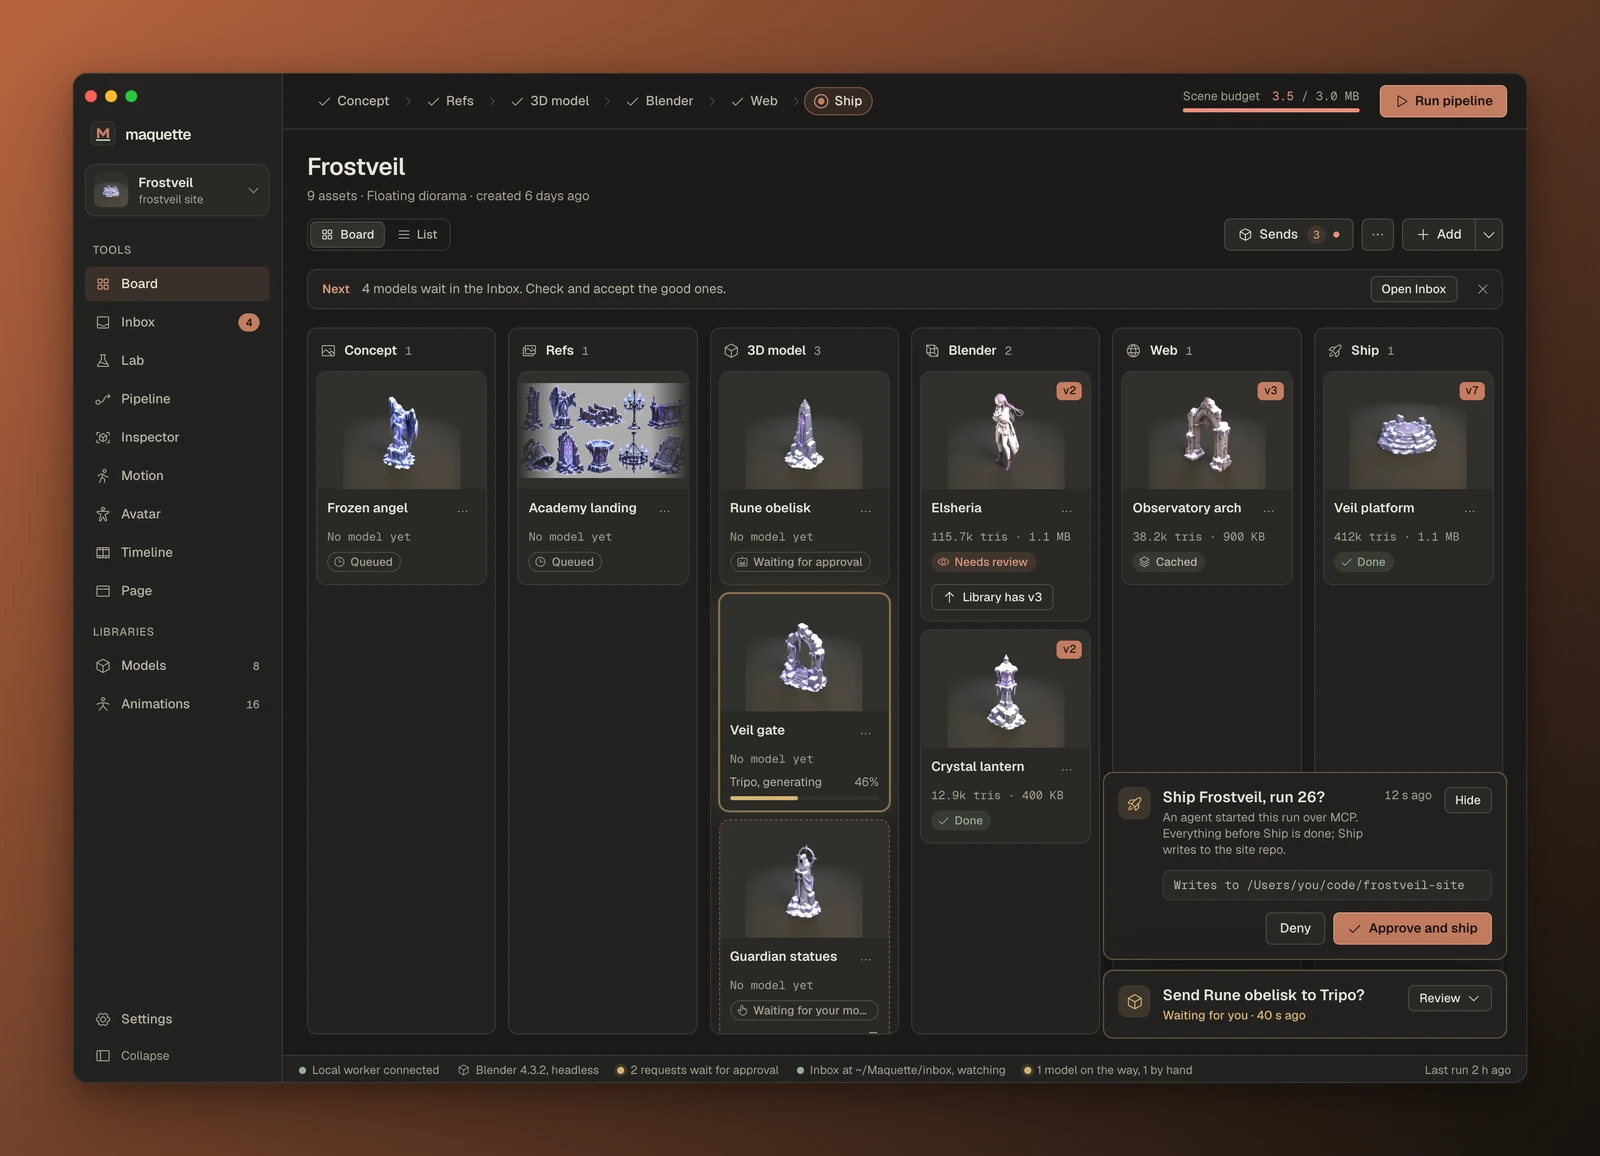
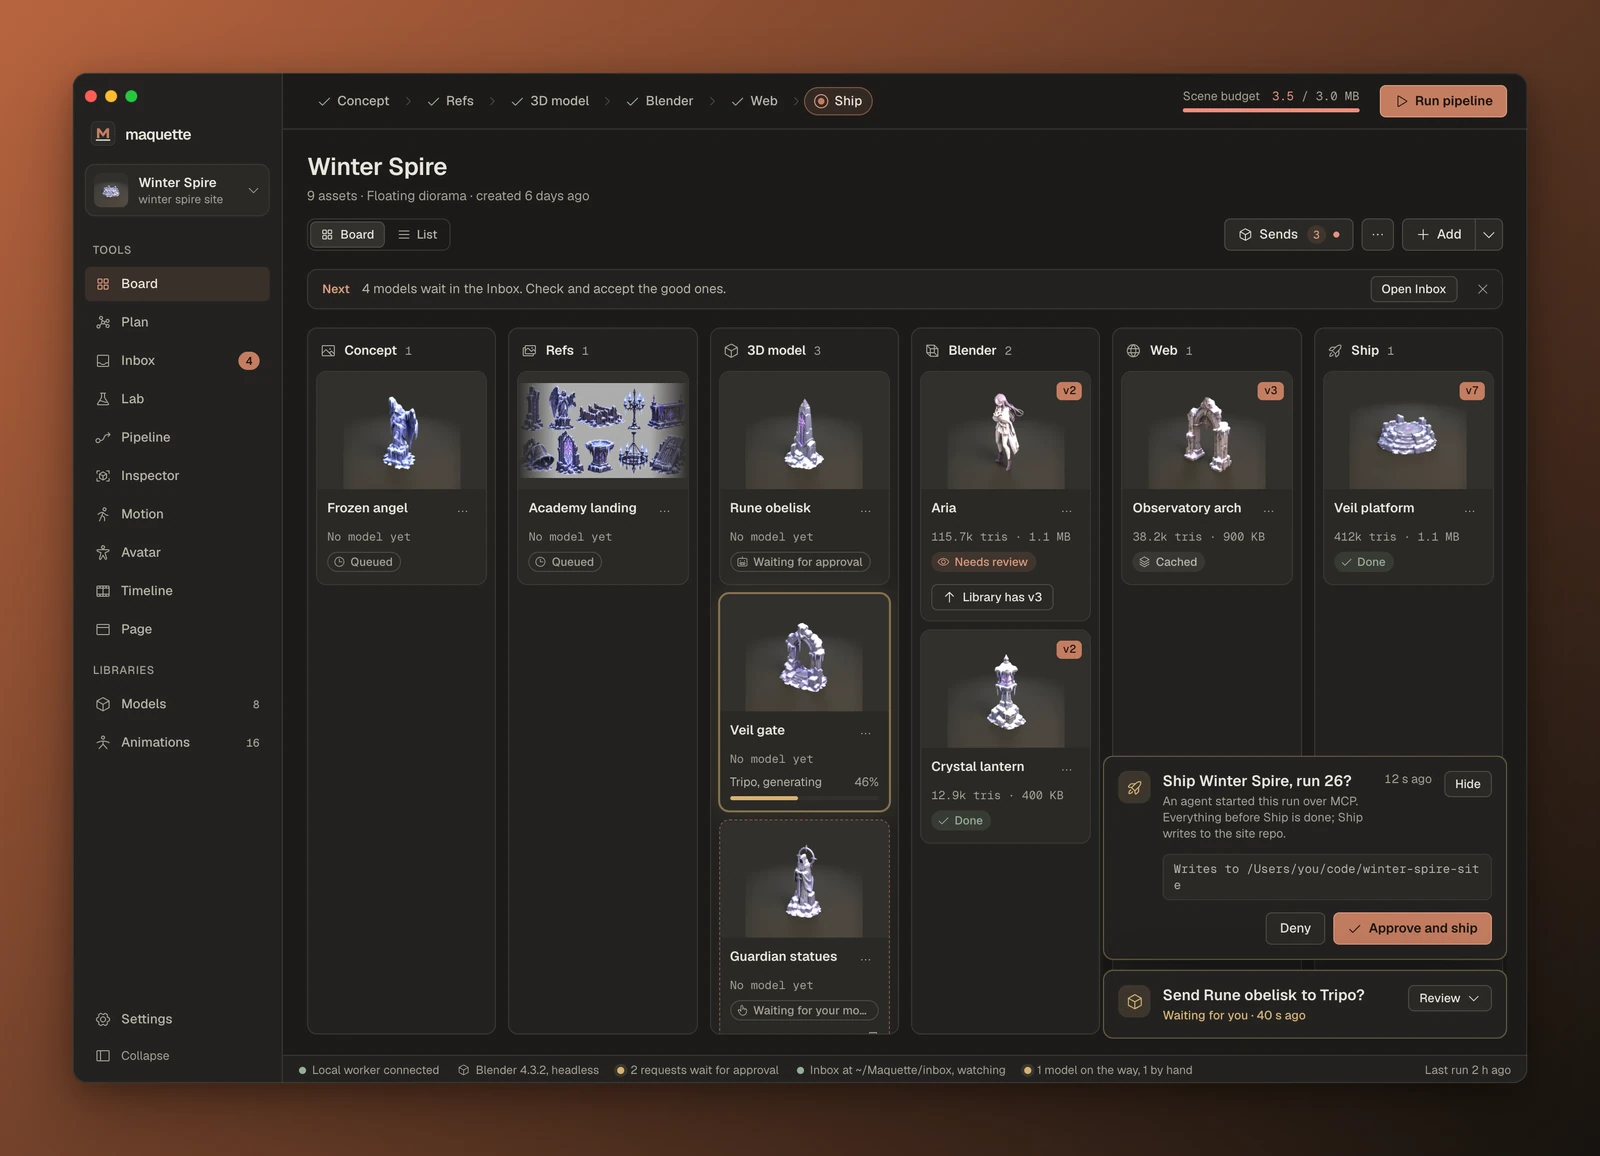
docs(docs): retake the README images and add the plan, tool group and trash shots

diff --git a/README.md b/README.md
@@ -1,5 +1,5 @@
 <div align="center">
-  <img src="assets/showcase/hero.webp" alt="Maquette: the Board, the Lab and the Page view of a sample project, stacked on a warm clay gradient" width="100%" />
+  <img src="assets/showcase/hero.webp" alt="Maquette: the Board, the Lab and a Plan canvas of a sample project, stacked on a warm clay gradient" width="100%" />
 
   <h1>Maquette</h1>
 
@@ -51,7 +51,7 @@ Concept  ->  Refs  ->  3D model  ->  Blender  ->  Web or Export  ->  Ship
 
 <table>
   <tr>
-    <td width="50%"><img src="assets/showcase/board.webp" alt="Maquette: the Board of the Frostveil sample project, with an asset in every column from Concept to Ship" /></td>
+    <td width="50%"><img src="assets/showcase/board.webp" alt="Maquette: the Board of the Winter Spire sample project, with an asset in every column from Concept to Ship" /></td>
     <td width="50%"><img src="assets/showcase/lab.webp" alt="Maquette: the Lab with six concept images of a frozen lake arena at night, one picked and two starred" /></td>
   </tr>
   <tr>
@@ -119,6 +119,30 @@ Concept  ->  Refs  ->  3D model  ->  Blender  ->  Web or Export  ->  Ship
 **Refs by view.** Each ref is tagged front, left, back, right or other on its asset, and every send goes in that order. Codex draws the missing views from the front or cleans a busy background, as candidates you pick from, and Send to 3D warns about small, cropped or cluttered refs, and views that look different from the front, before any credit is spent.
 
 **Libraries across projects.** Finished models live outside every project, with their versions, tags and refs. Using one copies it in and spends nothing; a project with an older copy is offered the update. Animation clips get a library of their own: Mixamo FBX files and pack zips, or a rigged model's clips, kept once and skeleton only.
+
+<table>
+  <tr>
+    <td width="50%"><img src="assets/showcase/plan.webp" alt="Maquette: a Game mechanics planning canvas with six note cards joined by a link, two pairs of cards flagged as overlapping and the Overlaps panel open on the right" /></td>
+    <td width="50%"><img src="assets/showcase/camera-plan.webp" alt="Maquette: the camera plan canvas of a website, five camera stops with their poster renders joined in tour order and the order after Apply listed on the right" /></td>
+  </tr>
+  <tr>
+    <td align="center"><sub>Plan: a Game mechanics canvas, with the cards that share a verb, look or key flagged.</sub></td>
+    <td align="center"><sub>Camera plan: the site tour as stops on a canvas, written to layout.json only after you review the diff.</sub></td>
+  </tr>
+</table>
+
+**Planning canvases.** Each project can hold canvases of notes, pictures, links and live asset and Lab direction nodes, saved as plain files in `plans/`. Presets start a canvas as Brainstorm, Story or Game mechanics. Agents read and write them over MCP, every write lands in a change log you can undo, and they never remove your nodes: they ask with `propose_removal` and you answer. A website's camera plan is a canvas of its stops that reaches `layout.json` only when you press Apply after reviewing the diff.
+
+<table>
+  <tr>
+    <td width="50%"><img src="assets/showcase/tool-groups.webp" alt="Maquette: Settings, Agents, with the MCP tool groups listed with their tool counts and a switch each" /></td>
+    <td width="50%"><img src="assets/showcase/removed-projects.webp" alt="Maquette: the Removed projects dialog listing one project with a Restore button, over the Board, with a notice that the project is in the workspace trash" /></td>
+  </tr>
+  <tr>
+    <td align="center"><sub>Tool groups: turn off the MCP tools an agent never needs.</sub></td>
+    <td align="center"><sub>Removed projects: a removed project waits in the workspace trash until you restore it.</sub></td>
+  </tr>
+</table>
 
 <table>
   <tr>
